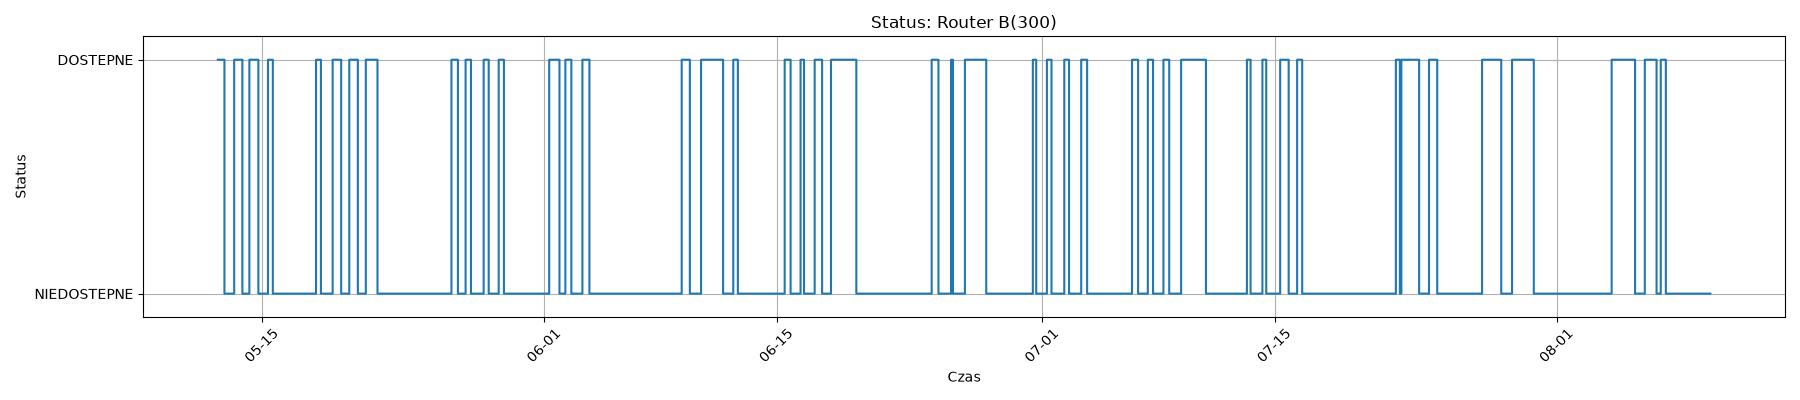
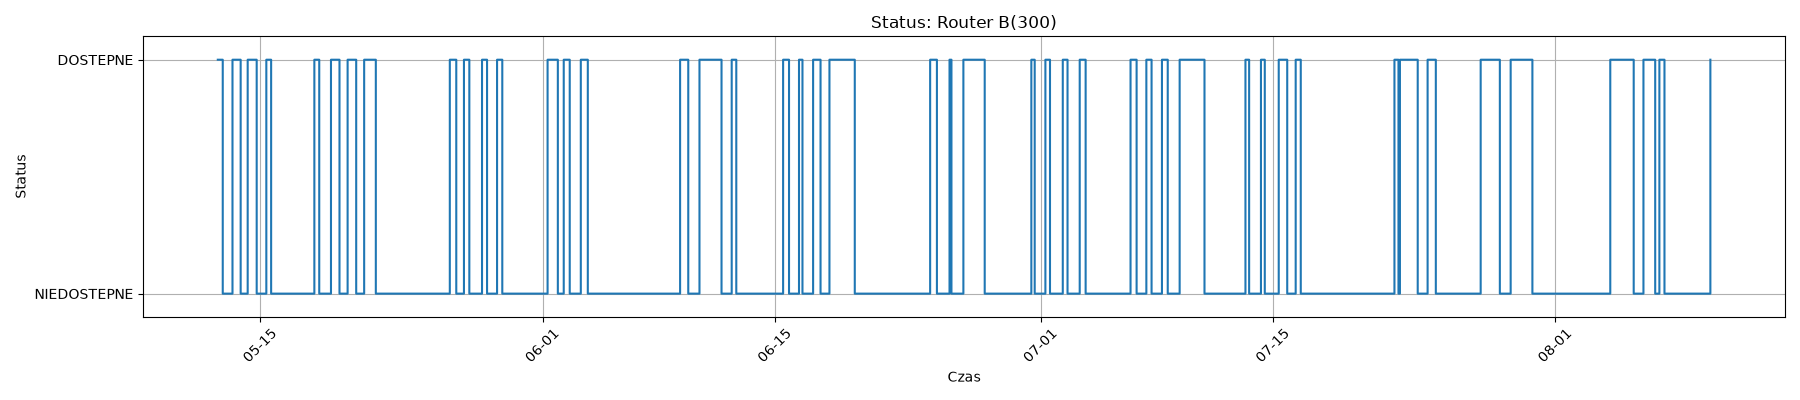
Automatyczna aktualizacja monitoringu

diff --git a/index.html b/index.html
@@ -23,7 +23,7 @@ img { border: 1px solid #ccc; border-radius: 8px; }
             </div>
             
             <div class="card">
-                <div class="status red">NIEDOSTEPNE</div>
+                <div class="status green">DOSTEPNE</div>
                 <div>Router B(300)</div>
                 <img src="chart_Router B(300).png" alt="Router B(300)" style="max-width:600px; margin-top:10px;">
             </div>
@@ -33,5 +33,5 @@ img { border: 1px solid #ccc; border-radius: 8px; }
                 <div>Router A(500)</div>
                 <img src="chart_Router A(500).png" alt="Router A(500)" style="max-width:600px; margin-top:10px;">
             </div>
-            <p>Ostatnia zmiana: 2026-08-10 06:01:30</p>
+            <p>Ostatnia zmiana: 2026-08-10 07:58:47</p>
 </body></html>
